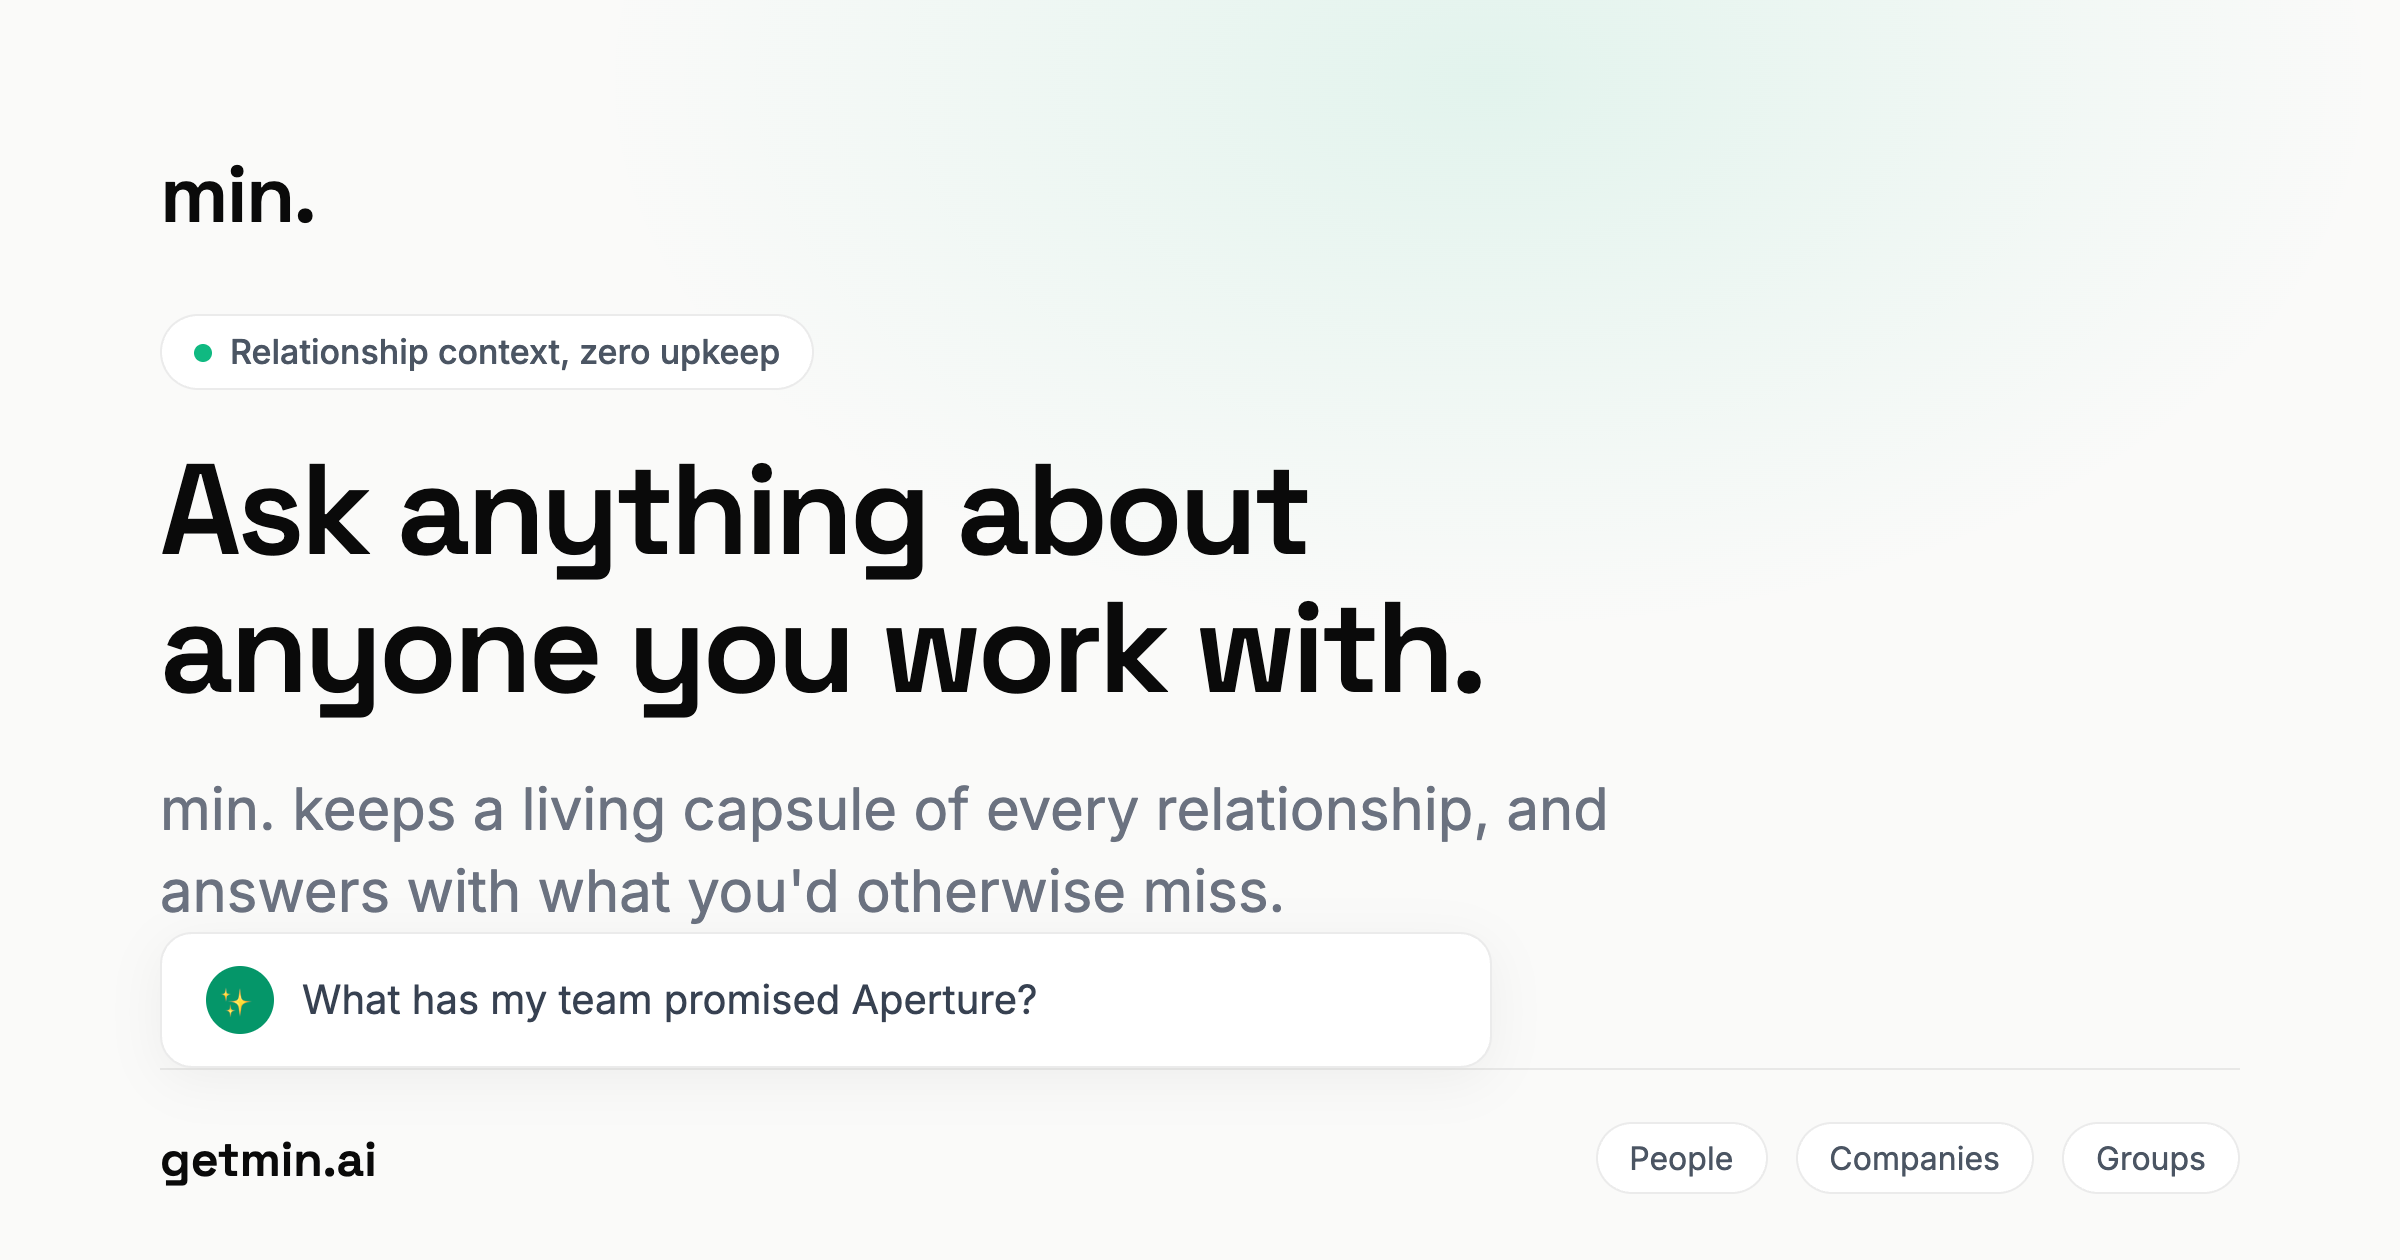
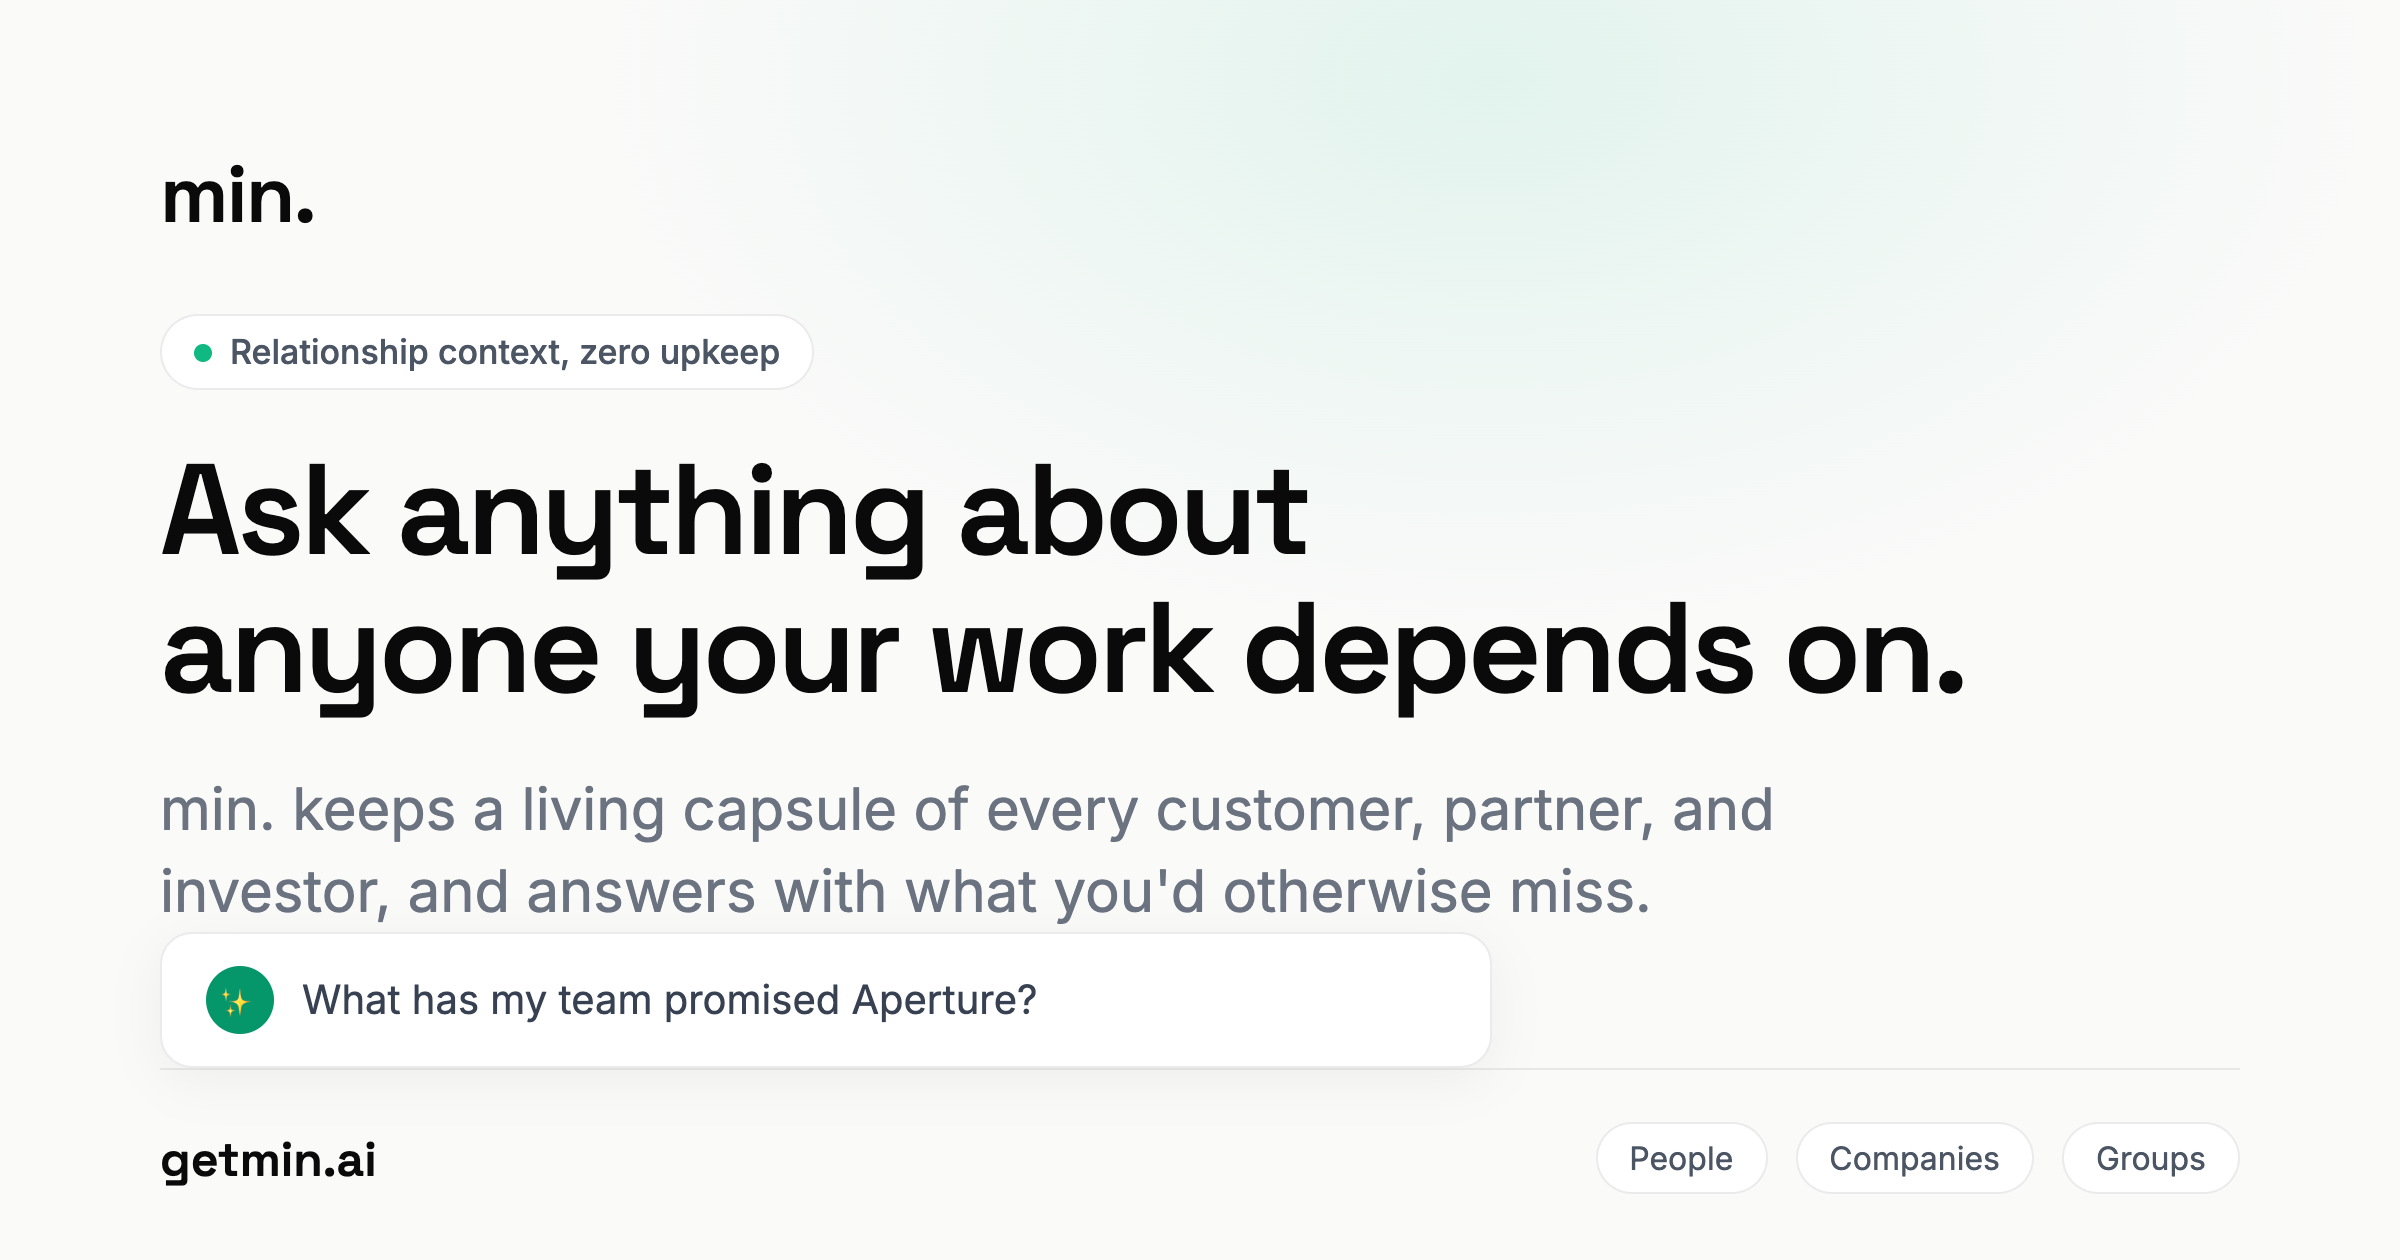
Hero: raise the stakes from colleagues to dependencies
"Anyone you work with" read as teammates, internal and low stakes. "Anyone
your work depends on" externalizes by implication, the people you depend
on are the ones you don't control: customers, partners, investors. The sub
names those archetypes to lock the read. OG card re-rendered.

Changed region(s): [[0.0625, 0.619, 0.75, 0.7429], [0.3438, 0.4643, 0.8125, 0.5571]]

diff --git a/src/components/landing/LandingHero.tsx b/src/components/landing/LandingHero.tsx
@@ -23,15 +23,15 @@ export default function LandingHero() {
           <FadeIn delay={0.1}>
             <h1 className="font-display text-[2.6rem] font-semibold leading-[1.08] tracking-tight text-gray-900 sm:text-5xl md:text-6xl">
               Ask anything about
-              <br className="hidden sm:block" /> anyone you work with.
+              <br className="hidden sm:block" /> anyone your work depends on.
             </h1>
           </FadeIn>
 
           <FadeIn delay={0.18}>
             <p className="mx-auto mt-6 max-w-xl text-[17px] leading-relaxed text-gray-500 lg:mx-0">
               min. sits in on your meetings and email, keeping a living capsule
-              of every relationship. Ask, and it answers with what you'd
-              otherwise miss.
+              of every customer, partner, and investor. Ask, and it answers
+              with what you'd otherwise miss.
             </p>
           </FadeIn>
 

diff --git a/public/og-image.html b/public/og-image.html
@@ -150,10 +150,10 @@
                 <div class="badge"><span class="badge-dot"></span>Relationship context, zero upkeep</div>
                 <div class="headline">
                     Ask anything about<br>
-                    anyone you work with.
+                    anyone your work depends on.
                 </div>
                 <div class="subheadline">
-                    min. keeps a living capsule of every relationship, and answers with what you'd otherwise miss.
+                    min. keeps a living capsule of every customer, partner, and investor, and answers with what you'd otherwise miss.
                 </div>
             </div>
 
